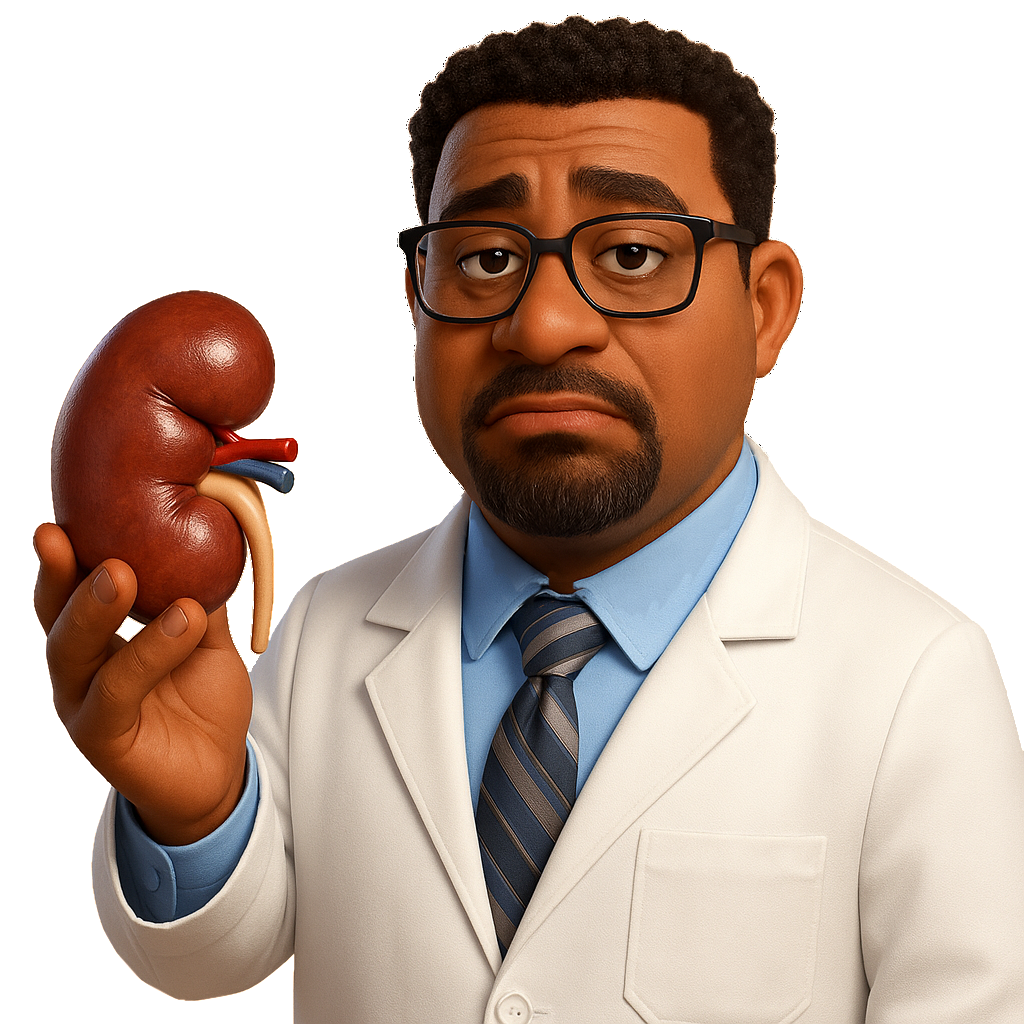
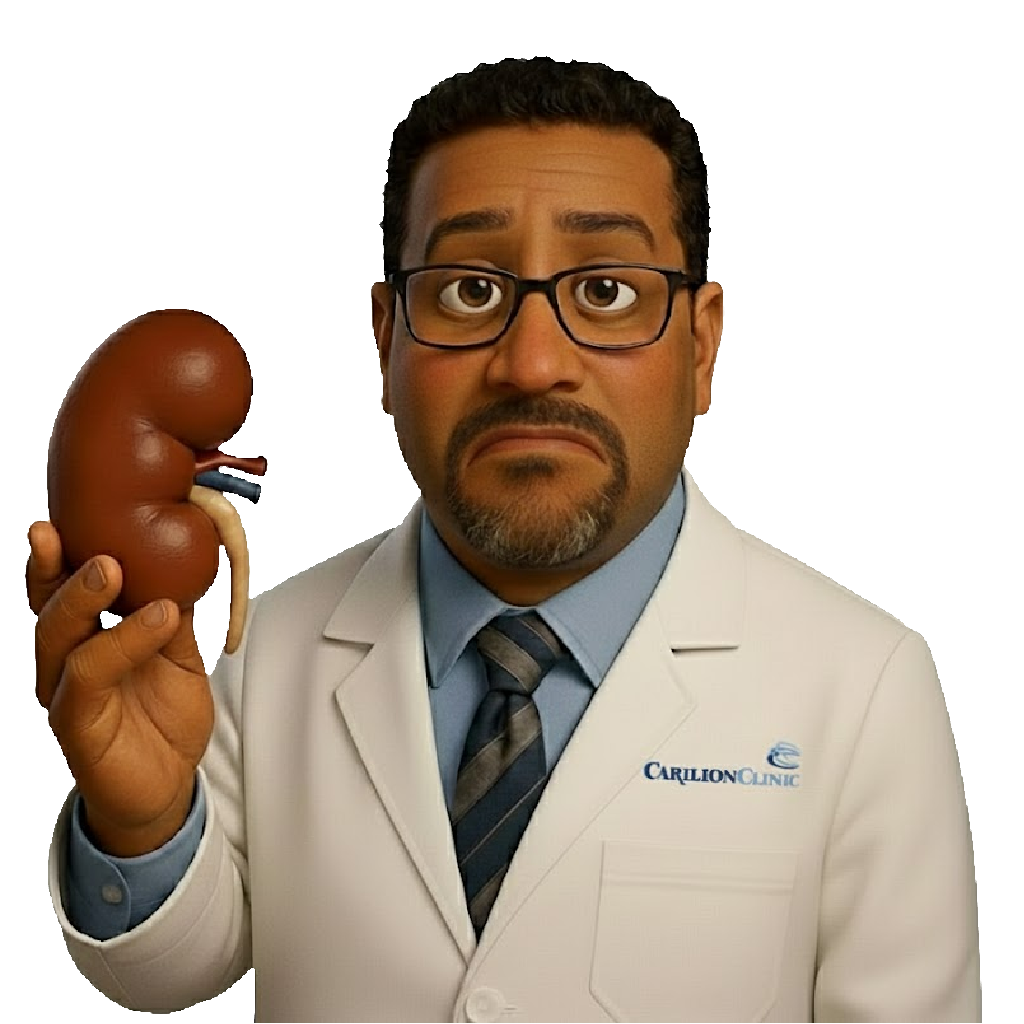
added salz neutral/happy/frown

diff --git a/src/pages/Home.jsx b/src/pages/Home.jsx
@@ -23,36 +23,71 @@ function Home() {
     };
 
     const [salzImage, setSalzImage] = useState('/salz.png');
-    // Audio files 1-3 trigger the frown image
+
+    // Define audio groups
     const frownAudioFiles = [audio1, audio2, audio3];
     const otherAudioFiles = [audio5, audio6, audio7, audio8];
-    const audioFiles = [...frownAudioFiles, ...otherAudioFiles];
+    const allAudioFiles = [...frownAudioFiles, ...otherAudioFiles];
 
-    const playRandomAudio = () => {
-        const randomIndex = Math.floor(Math.random() * audioFiles.length);
-        const selectedFile = audioFiles[randomIndex];
-        const audio = new Audio(selectedFile);
+    // Shuffle helper
+    const shuffleArray = (array) => {
+        const newArray = [...array];
+        for (let i = newArray.length - 1; i > 0; i--) {
+            const j = Math.floor(Math.random() * (i + 1));
+            [newArray[i], newArray[j]] = [newArray[j], newArray[i]];
+        }
+        return newArray;
+    };
 
-        // Check if the selected file is one of the frown-inducing audios
-        if (frownAudioFiles.includes(selectedFile)) {
+    // State for playlist
+    const [playlist, setPlaylist] = useState(() => shuffleArray(allAudioFiles));
+    const [currentTrackIndex, setCurrentTrackIndex] = useState(0);
+
+    const playNextAudio = () => {
+        if (allAudioFiles.length === 0) return;
+
+        // If playlist is empty, reshuffle
+        if (playlist.length === 0) {
+            const newPlaylist = shuffleArray([...allAudioFiles]);
+            setPlaylist(newPlaylist);
+            setCurrentTrackIndex(0);
+            playAudio(newPlaylist[0]);
+        } else {
+            // Play next in current playlist
+            const nextTrack = playlist[currentTrackIndex];
+            playAudio(nextTrack);
+
+            // Prepare for next click
+            if (currentTrackIndex < playlist.length - 1) {
+                setCurrentTrackIndex(prev => prev + 1);
+            } else {
+                // End of playlist, clear it so next click reshuffles
+                setPlaylist([]);
+            }
+        }
+    };
+
+    const playAudio = (audioFile) => {
+        const audio = new Audio(audioFile);
+
+        // Set image based on track
+        if (frownAudioFiles.includes(audioFile)) {
             setSalzImage('/salz-frown.png');
-
-            // Reset when audio ends
-            audio.onended = () => {
-                setSalzImage('/salz.png');
-            };
-
-            // Reset on error
-            audio.onerror = (e) => {
-                console.error("Audio error:", e);
-                setSalzImage('/salz.png');
-            };
+        } else {
+            setSalzImage('/salz-happy.png');
         }
 
-        // Play audio
+        audio.onended = () => {
+            setSalzImage('/salz.png');
+        };
+
+        audio.onerror = (e) => {
+            console.error("Audio playback error:", e);
+            setSalzImage('/salz.png');
+        };
+
         audio.play().catch(e => {
-            console.error("Error playing audio:", e);
-            // Revert image if play fails
+            console.error("Play failed:", e);
             setSalzImage('/salz.png');
         });
     };
@@ -85,12 +120,12 @@ function Home() {
                     <img
                         src={salzImage}
                         alt="Salz"
-                        onClick={playRandomAudio}
+                        onClick={playNextAudio}
                         style={{
                             position: 'absolute',
-                            top: '5px',
+                            top: '-10px',
                             right: '-40px',
-                            width: '100px',
+                            width: '140px',
                             height: 'auto',
                             zIndex: 10,
                             cursor: 'pointer'

diff --git a/src/pages/Protocols.jsx b/src/pages/Protocols.jsx
@@ -10,8 +10,10 @@ function Protocols() {
     const [searchTerm, setSearchTerm] = useState(initialSearch);
 
     const filteredProtocols = protocolsData.filter(p => {
-        const matchesSearch = p.title.toLowerCase().includes(searchTerm.toLowerCase()) ||
-            p.category.toLowerCase().includes(searchTerm.toLowerCase());
+        const searchLower = searchTerm.toLowerCase();
+        const matchesSearch = p.title.toLowerCase().includes(searchLower) ||
+            p.category.toLowerCase().includes(searchLower) ||
+            (p.keywords && p.keywords.some(k => k.toLowerCase().includes(searchLower)));
         const matchesFilter = filter === 'urgent' ? p.isUrgent : true;
         return matchesSearch && matchesFilter;
     });
